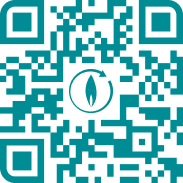
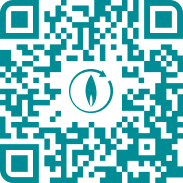
feat: change link and qr in taskEnd

diff --git a/src/components/TaskArea/TaskArea.tsx b/src/components/TaskArea/TaskArea.tsx
@@ -21,7 +21,7 @@ interface IProps {
 
 function TaskArea(props: IProps) {
 
-    const {openFirework, openTask, closePoints} = props;
+    const { openFirework, openTask, closePoints } = props;
 
     const [checkClick, setCheckClick] = useState(false);
 
@@ -31,11 +31,11 @@ function TaskArea(props: IProps) {
 
     const dispatch = useAppDispatch();
 
-    const arrActiveQuestion = useAppSelector((state)=>state.activeQuestion).activeQuestion;
-    const arrQuestions = useAppSelector((state)=>state.arrQuestionsReducer).arrQuestions;
+    const arrActiveQuestion = useAppSelector((state) => state.activeQuestion).activeQuestion;
+    const arrQuestions = useAppSelector((state) => state.arrQuestionsReducer).arrQuestions;
     let activeQuestionPoints = 0;
-    let answer = "Отличный результат!", question = "", sizeAnswer = "20px", paddingAnswer = "0px", paddingQuestion = "0px", paddingAnswerBtm  = "26px";
-    if(arrActiveQuestion[0] !== 4) {
+    let answer = "Отличный результат!", question = "", sizeAnswer = "20px", paddingAnswer = "0px", paddingQuestion = "0px", paddingAnswerBtm = "26px";
+    if (arrActiveQuestion[0] !== 4) {
         activeQuestionPoints = arrQuestions[arrActiveQuestion[0]][arrActiveQuestion[1]];
         const data = questionAnswerText[arrActiveQuestion[0]][arrActiveQuestion[1]];
         question = data.question;
@@ -47,16 +47,16 @@ function TaskArea(props: IProps) {
     }
 
 
-    const [ fontSize, setFontSize ] = useState("15px");
+    const [fontSize, setFontSize] = useState("15px");
     const styles = { "fontSize": fontSize };
     const [padding, setPadding] = useState(paddingQuestion);
     const [paddingBtm, setPaddingBtm] = useState("26px");
-    const stylesPadding = {"paddingRight": padding, "paddingBottom": paddingBtm};
+    const stylesPadding = { "paddingRight": padding, "paddingBottom": paddingBtm };
 
     //ответ пользователя
-    const useAnswer = useAppSelector((state)=>state.checkAnswerReducer).checkAnswer;
+    const useAnswer = useAppSelector((state) => state.checkAnswerReducer).checkAnswer;
     const [userAnswerTask, setUserAnswerTask] = useState<TStateAnswer>("wait");
-    
+
     //передаем в таски - пока пользователь не сделал выбор кнопка готово не активна
     const [startGame, setStartGame] = useState(false);
     const selectAnswer = (data: boolean) => {
@@ -67,8 +67,8 @@ function TaskArea(props: IProps) {
     const [final, setFinal] = useState(true);
 
     //логика работы кнопки готово
-    const answerUser = () =>{
-        if(endGame) {
+    const answerUser = () => {
+        if (endGame) {
             setCheckAnswer("wait");
             setUserAnswerTask("wait");
             openFirework(false);
@@ -76,7 +76,7 @@ function TaskArea(props: IProps) {
             setFontSize("15px");
             openTask(false);
             //если все вопросы закончились
-            if(arrQuestions.flat().filter((item)=>item===0).length === 16){
+            if (arrQuestions.flat().filter((item) => item === 0).length === 1) {
                 setFinal(false);
                 dispatch(saveActive([4, 4]));
                 setFontSize("20px");
@@ -90,14 +90,14 @@ function TaskArea(props: IProps) {
 
             return
         }
-        if(!startGame) return; //пока пользователь не выбрал ответ
+        if (!startGame) return; //пока пользователь не выбрал ответ
         setUserAnswerTask(useAnswer);
-        if(useAnswer === "true") {
+        if (useAnswer === "true") {
             openFirework(true);
             dispatch(setPoints(activeQuestionPoints));
         }
-   
-        
+
+
         dispatch(removePoints(arrActiveQuestion));
         setStartGame(false);
         setEndGame(true);
@@ -112,27 +112,27 @@ function TaskArea(props: IProps) {
         openTask(false);
     }
 
-  return (
-    <>
-        <div className={"main__task task " + (userAnswerTask === "wait" ? "" : userAnswerTask === "true"? "success" : "danger") + (taskEnd ? "end" : "")}>
-            <div className="task__wrapper">
-                <div className={userAnswerTask === "wait" ? "task__head" : "task__head-answer"}>
-                    <div className="task__heading" style = {stylesPadding}>
-                        {userAnswerTask === "wait" && final && <div onClick = {closeTask} className = "task__close"><span></span></div>}
-                        <div className="task__points">{userAnswerTask === "wait" ? (arrActiveQuestion[1] + 1) * 100 : <Lamp check = {userAnswerTask === "true"}/>}</div>
-                        <h3 className={"task__title " + (checkClick ? "answer" : "")} style={styles} dangerouslySetInnerHTML={!checkClick ? {__html: question} : {__html: answer}}></h3>
+    return (
+        <>
+            <div className={"main__task task " + (userAnswerTask === "wait" ? "" : userAnswerTask === "true" ? "success" : "danger") + (taskEnd ? "end" : "")}>
+                <div className="task__wrapper">
+                    <div className={userAnswerTask === "wait" ? "task__head" : "task__head-answer"}>
+                        <div className="task__heading" style={stylesPadding}>
+                            {userAnswerTask === "wait" && final && <div onClick={closeTask} className="task__close"><span></span></div>}
+                            <div className="task__points">{userAnswerTask === "wait" ? (arrActiveQuestion[1] + 1) * 100 : <Lamp check={userAnswerTask === "true"} />}</div>
+                            <h3 className={"task__title " + (checkClick ? "answer" : "")} style={styles} dangerouslySetInnerHTML={!checkClick ? { __html: question } : { __html: answer }}></h3>
+                        </div>
                     </div>
+
+                    {!checkClick && <Task selectAnswer={selectAnswer} checkClick={checkClick} active={arrActiveQuestion} />}
+                    {checkClick && <TaskAnswer correct={useAnswer === "true"} />}
+                    <button className="btn task__btn" onClick={answerUser}>{userAnswerTask === "wait" ? "ГОТОВО" : "ОГО"}</button>
+
+
                 </div>
-
-                {!checkClick && <Task selectAnswer = {selectAnswer} checkClick={checkClick} active={arrActiveQuestion}/>}
-                {checkClick && <TaskAnswer correct={useAnswer === "true"}/>}
-                <button className="btn task__btn" onClick={answerUser}>{userAnswerTask === "wait" ? "ГОТОВО" : "ОГО"}</button>
-
-
             </div>
-        </div>
-    </>
-  )
+        </>
+    )
 }
 
 export default TaskArea

diff --git a/src/components/Tasks/TaskEnd/TaskEnd.tsx b/src/components/Tasks/TaskEnd/TaskEnd.tsx
@@ -21,7 +21,7 @@ function TaskEnd() {
           <p className={styles.contactText}>
             Хочешь у нас работать?<br />Присоединяйся к команде!
           </p>
-          <a href="https://vk.cc/crvlFm" className={styles.btnEnd}>откликнуться</a>
+          <a href="https://fut.ru/career_nipigas" className={styles.btnEnd}>откликнуться</a>
         </div>
 
       </div>
